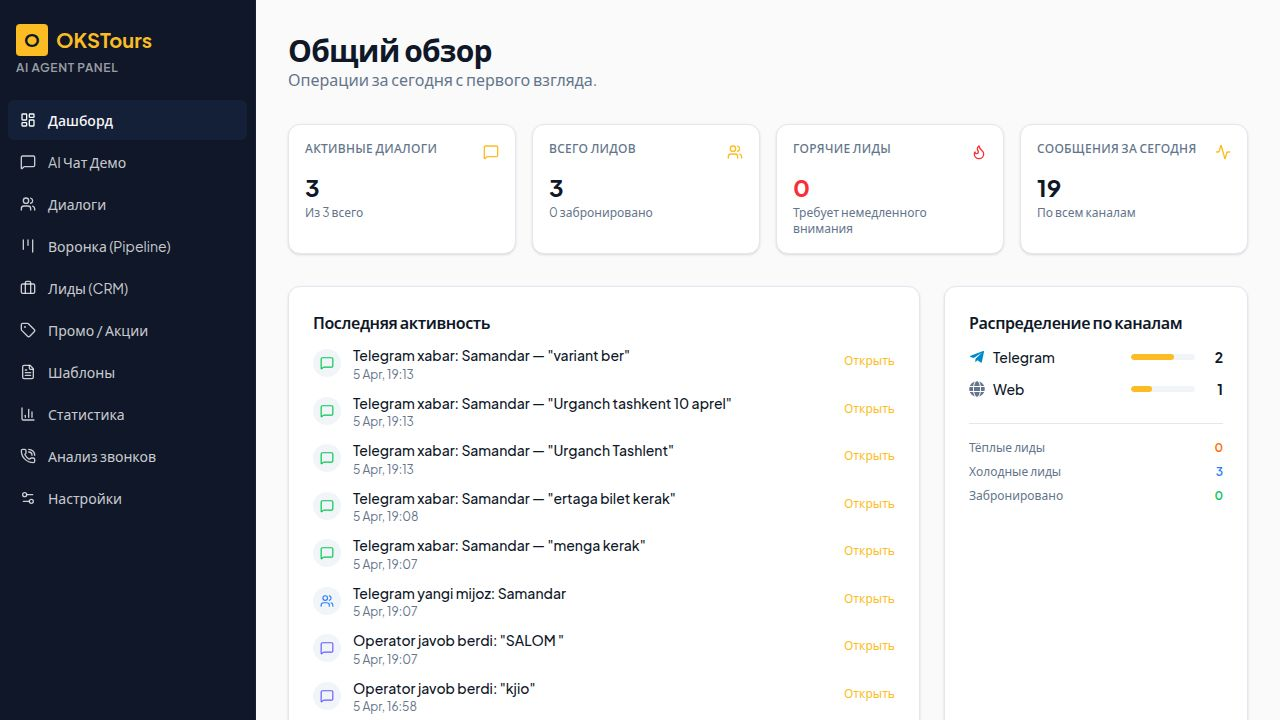
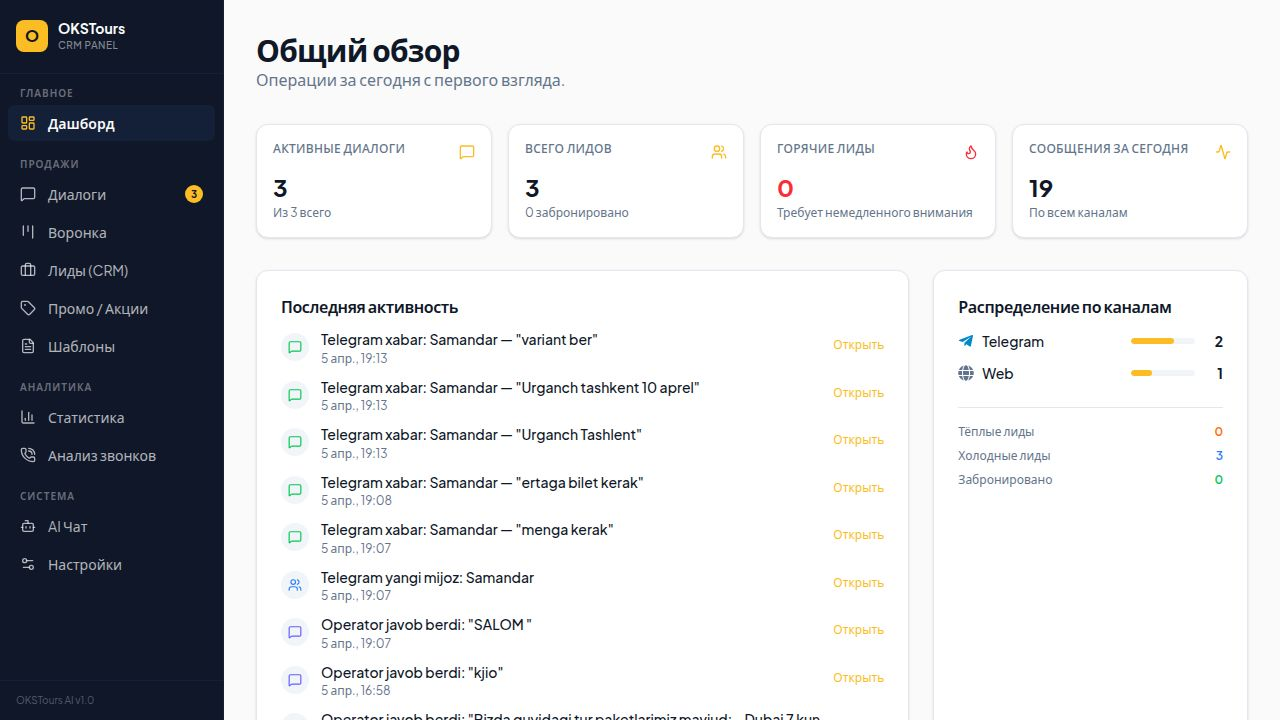
Add CSV export and quick status updates for leads
Add CSV export functionality and quick status update buttons to the leads page. Includes sound notification for new conversations and a badge for active conversations in the sidebar.

Replit-Commit-Author: Agent
Replit-Commit-Session-Id: f08cd5d9-9ca2-4dc6-8116-f60538dc45df
Replit-Commit-Checkpoint-Type: full_checkpoint
Replit-Commit-Event-Id: 3a597155-addb-4e4c-81b4-a9c66969ad68
Replit-Commit-Screenshot-Url: https://storage.googleapis.com/screenshot-production-us-central1/7b86a3c0-a06f-44d9-93b9-3be2e4520be3/f08cd5d9-9ca2-4dc6-8116-f60538dc45df/dOhW3o4
Replit-Helium-Checkpoint-Created: true

diff --git a/artifacts/okstours/src/components/layout.tsx b/artifacts/okstours/src/components/layout.tsx
@@ -1,4 +1,4 @@
-import React from "react";
+import React, { useRef, useEffect } from "react";
 import { Link, useLocation } from "wouter";
 import {
   LayoutDashboard,
@@ -16,42 +16,83 @@ import {
 } from "lucide-react";
 import { Button } from "./ui/button";
 import { Sheet, SheetContent, SheetTrigger } from "./ui/sheet";
+import { useListConversations } from "@workspace/api-client-react";
 
-const NAV_SECTIONS = [
-  {
-    label: "Главное",
-    items: [
-      { href: "/", label: "Дашборд", icon: LayoutDashboard },
-    ],
-  },
-  {
-    label: "Продажи",
-    items: [
-      { href: "/conversations", label: "Диалоги", icon: MessageSquare },
-      { href: "/pipeline", label: "Воронка", icon: Kanban },
-      { href: "/leads", label: "Лиды (CRM)", icon: Briefcase },
-      { href: "/promotions", label: "Промо / Акции", icon: Tag },
-      { href: "/templates", label: "Шаблоны", icon: FileText },
-    ],
-  },
-  {
-    label: "Аналитика",
-    items: [
-      { href: "/stats", label: "Статистика", icon: BarChart3 },
-      { href: "/call-analysis", label: "Анализ звонков", icon: PhoneCall },
-    ],
-  },
-  {
-    label: "Система",
-    items: [
-      { href: "/chat", label: "AI Чат", icon: Bot },
-      { href: "/settings", label: "Настройки", icon: Settings2 },
-    ],
-  },
-];
+function playNotificationBeep() {
+  try {
+    const ctx = new (window.AudioContext || (window as any).webkitAudioContext)();
+    const osc = ctx.createOscillator();
+    const gain = ctx.createGain();
+    osc.connect(gain);
+    gain.connect(ctx.destination);
+    osc.type = "sine";
+    osc.frequency.setValueAtTime(880, ctx.currentTime);
+    osc.frequency.setValueAtTime(1100, ctx.currentTime + 0.12);
+    gain.gain.setValueAtTime(0.25, ctx.currentTime);
+    gain.gain.exponentialRampToValueAtTime(0.001, ctx.currentTime + 0.4);
+    osc.start(ctx.currentTime);
+    osc.stop(ctx.currentTime + 0.4);
+  } catch {}
+}
 
 export function Layout({ children }: { children: React.ReactNode }) {
   const [location] = useLocation();
+
+  const { data: activeConvs } = useListConversations(
+    { status: "active" },
+    { query: { refetchInterval: 8000 } }
+  );
+
+  const prevCountRef = useRef<number | null>(null);
+  const isFirstLoad = useRef(true);
+
+  useEffect(() => {
+    const count = activeConvs?.length ?? 0;
+    if (isFirstLoad.current) {
+      prevCountRef.current = count;
+      isFirstLoad.current = false;
+      return;
+    }
+    if (prevCountRef.current !== null && count > prevCountRef.current) {
+      playNotificationBeep();
+    }
+    prevCountRef.current = count;
+  }, [activeConvs?.length]);
+
+  const activeCount = activeConvs?.length ?? 0;
+
+  const NAV_SECTIONS = [
+    {
+      label: "Главное",
+      items: [
+        { href: "/", label: "Дашборд", icon: LayoutDashboard, badge: null },
+      ],
+    },
+    {
+      label: "Продажи",
+      items: [
+        { href: "/conversations", label: "Диалоги", icon: MessageSquare, badge: activeCount > 0 ? activeCount : null },
+        { href: "/pipeline", label: "Воронка", icon: Kanban, badge: null },
+        { href: "/leads", label: "Лиды (CRM)", icon: Briefcase, badge: null },
+        { href: "/promotions", label: "Промо / Акции", icon: Tag, badge: null },
+        { href: "/templates", label: "Шаблоны", icon: FileText, badge: null },
+      ],
+    },
+    {
+      label: "Аналитика",
+      items: [
+        { href: "/stats", label: "Статистика", icon: BarChart3, badge: null },
+        { href: "/call-analysis", label: "Анализ звонков", icon: PhoneCall, badge: null },
+      ],
+    },
+    {
+      label: "Система",
+      items: [
+        { href: "/chat", label: "AI Чат", icon: Bot, badge: null },
+        { href: "/settings", label: "Настройки", icon: Settings2, badge: null },
+      ],
+    },
+  ];
 
   const NavLinks = () => (
     <>
@@ -89,7 +130,12 @@ export function Layout({ children }: { children: React.ReactNode }) {
                       }`}
                     >
                       <Icon className={`h-4 w-4 shrink-0 ${isActive ? "text-primary" : ""}`} />
-                      {item.label}
+                      <span className="flex-1">{item.label}</span>
+                      {item.badge !== null && (
+                        <span className="min-w-[18px] h-[18px] px-1 rounded-full bg-primary text-primary-foreground text-[10px] font-bold flex items-center justify-center leading-none">
+                          {item.badge}
+                        </span>
+                      )}
                     </span>
                   </Link>
                 );

diff --git a/artifacts/okstours/src/pages/leads.tsx b/artifacts/okstours/src/pages/leads.tsx
@@ -1,12 +1,12 @@
 import React, { useState, useMemo } from "react";
 import { Link } from "wouter";
-import { useListLeads, useCreateLead } from "@workspace/api-client-react";
+import { useListLeads, useCreateLead, useUpdateLead } from "@workspace/api-client-react";
 import { format } from "date-fns";
 import { ru } from "date-fns/locale";
 import {
   Users, Filter, Plus, Search, Phone, MapPin, X, Save,
   DollarSign, User, AlertTriangle, Send, CheckSquare, Square,
-  Megaphone, Clock,
+  Megaphone, Clock, Download, ChevronDown,
 } from "lucide-react";
 import { Input } from "@/components/ui/input";
 import { Select, SelectContent, SelectItem, SelectTrigger, SelectValue } from "@/components/ui/select";
@@ -181,6 +181,55 @@ export default function Leads() {
     }
   };
 
+  const updateLeadMutation = useUpdateLead();
+
+  const handleQuickStatus = (leadId: number, newStatus: string, e: React.MouseEvent) => {
+    e.preventDefault();
+    e.stopPropagation();
+    updateLeadMutation.mutate(
+      { id: leadId, data: { status: newStatus as any } },
+      {
+        onSuccess: () => {
+          queryClient.invalidateQueries({ queryKey: ["/api/leads"] });
+          toast({ title: "Статус обновлён", description: statusLabels[newStatus] ?? newStatus });
+        },
+      }
+    );
+  };
+
+  const downloadCSV = () => {
+    const rows = (filtered ?? []).map((l) => ({
+      Имя: l.name ?? "",
+      Телефон: l.phone ?? "",
+      Статус: statusLabels[l.status] ?? l.status,
+      Сегмент: segmentLabels[l.segment] ?? l.segment,
+      Направление: l.destination ?? "",
+      Бюджет: l.budget ?? "",
+      Дата: format(new Date(l.createdAt), "d MMM yyyy", { locale: ru }),
+    }));
+    const headers = Object.keys(rows[0] ?? {});
+    const csvContent =
+      "\ufeff" +
+      [headers, ...rows.map((r) => headers.map((h) => `"${(r as any)[h]}"`))]
+        .map((row) => row.join(","))
+        .join("\n");
+    const blob = new Blob([csvContent], { type: "text/csv;charset=utf-8;" });
+    const url = URL.createObjectURL(blob);
+    const a = document.createElement("a");
+    a.href = url;
+    a.download = `leads_${format(new Date(), "yyyy-MM-dd")}.csv`;
+    a.click();
+    URL.revokeObjectURL(url);
+  };
+
+  const QUICK_STATUSES = [
+    { value: "new", label: "Новый", color: "bg-slate-100 text-slate-700 hover:bg-slate-200" },
+    { value: "contacted", label: "Связались", color: "bg-blue-100 text-blue-700 hover:bg-blue-200" },
+    { value: "qualified", label: "Квалиф.", color: "bg-purple-100 text-purple-700 hover:bg-purple-200" },
+    { value: "booked", label: "Бронь", color: "bg-green-100 text-green-700 hover:bg-green-200" },
+    { value: "lost", label: "Потерян", color: "bg-red-100 text-red-700 hover:bg-red-200" },
+  ];
+
   return (
     <div className="p-6 md:p-8 max-w-7xl mx-auto flex flex-col h-full space-y-6 overflow-y-auto">
       <div className="flex flex-col sm:flex-row justify-between items-start sm:items-center gap-4">
@@ -207,6 +256,9 @@ export default function Leads() {
           </Select>
           <Button variant="outline" onClick={() => { setBulkOpen(true); setSelectedIds(new Set()); }} className="gap-2 h-9">
             <Megaphone className="w-4 h-4" /> Рассылка
+          </Button>
+          <Button variant="outline" onClick={downloadCSV} className="gap-2 h-9" disabled={filtered.length === 0}>
+            <Download className="w-4 h-4" /> Экспорт
           </Button>
           <Button onClick={() => setCreateOpen(true)} className="gap-2 h-9">
             <Plus className="w-4 h-4" /> Новый лид
@@ -246,10 +298,13 @@ export default function Leads() {
               const rotting = isRotting(lead);
               const daysAgo = Math.floor(daysSince(lead.updatedAt));
               return (
-                <Link key={lead.id} href={`/leads/${lead.id}`} className="block group">
-                  <div className={`bg-card border hover:shadow-md transition-all p-4 rounded-xl h-full flex flex-col gap-3 ${
+                <div
+                  key={lead.id}
+                  className={`group bg-card border hover:shadow-md transition-all rounded-xl flex flex-col ${
                     rotting ? "border-orange-300 hover:border-orange-400" : "hover:border-primary/50"
-                  }`}>
+                  }`}
+                >
+                  <Link href={`/leads/${lead.id}`} className="block p-4 flex-1">
                     <div className="flex items-start gap-3">
                       <div className={`w-10 h-10 rounded-full ${getAvatarColor(lead.name)} flex items-center justify-center text-white font-bold text-sm shrink-0`}>
                         {getInitials(lead.name)}
@@ -275,7 +330,7 @@ export default function Leads() {
                       </div>
                     </div>
 
-                    <div className="space-y-1 pl-[52px]">
+                    <div className="space-y-1 pl-[52px] mt-3">
                       {lead.phone && (
                         <div className="flex items-center text-xs text-muted-foreground gap-1.5">
                           <Phone className="w-3 h-3 shrink-0" />
@@ -289,8 +344,10 @@ export default function Leads() {
                         </div>
                       )}
                     </div>
+                  </Link>
 
-                    <div className="flex items-center justify-between pt-2.5 border-t mt-auto">
+                  <div className="px-4 pb-3 pt-2 border-t">
+                    <div className="flex items-center justify-between group-hover:hidden">
                       <Badge className={`text-[10px] font-medium ${statusColors[lead.status] ?? ""}`} variant="secondary">
                         {statusLabels[lead.status] ?? lead.status}
                       </Badge>
@@ -302,8 +359,21 @@ export default function Leads() {
                         }
                       </div>
                     </div>
+                    <div className="hidden group-hover:flex items-center gap-1 flex-wrap">
+                      {QUICK_STATUSES.map((s) => (
+                        <button
+                          key={s.value}
+                          onClick={(e) => handleQuickStatus(lead.id, s.value, e)}
+                          className={`text-[10px] px-2 py-0.5 rounded-full font-medium transition-colors border border-transparent ${s.color} ${
+                            lead.status === s.value ? "ring-1 ring-offset-1 ring-current" : ""
+                          }`}
+                        >
+                          {s.label}
+                        </button>
+                      ))}
+                    </div>
                   </div>
-                </Link>
+                </div>
               );
             })}
           </div>